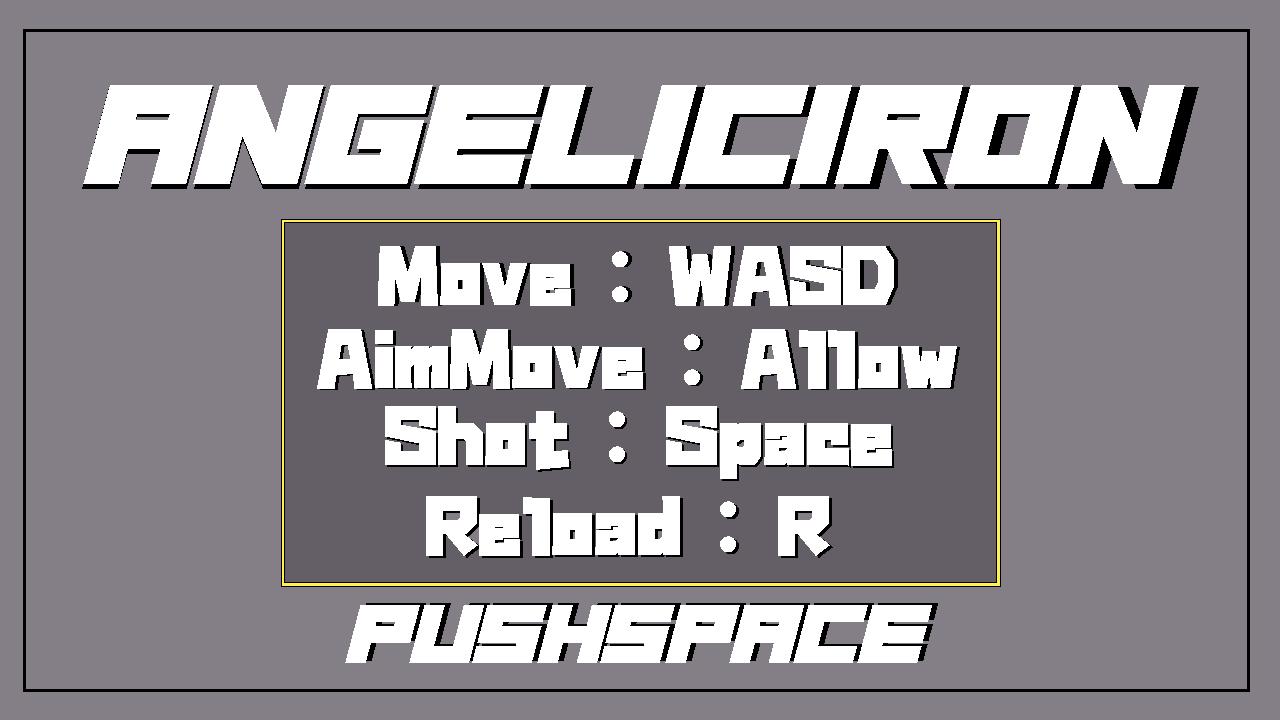
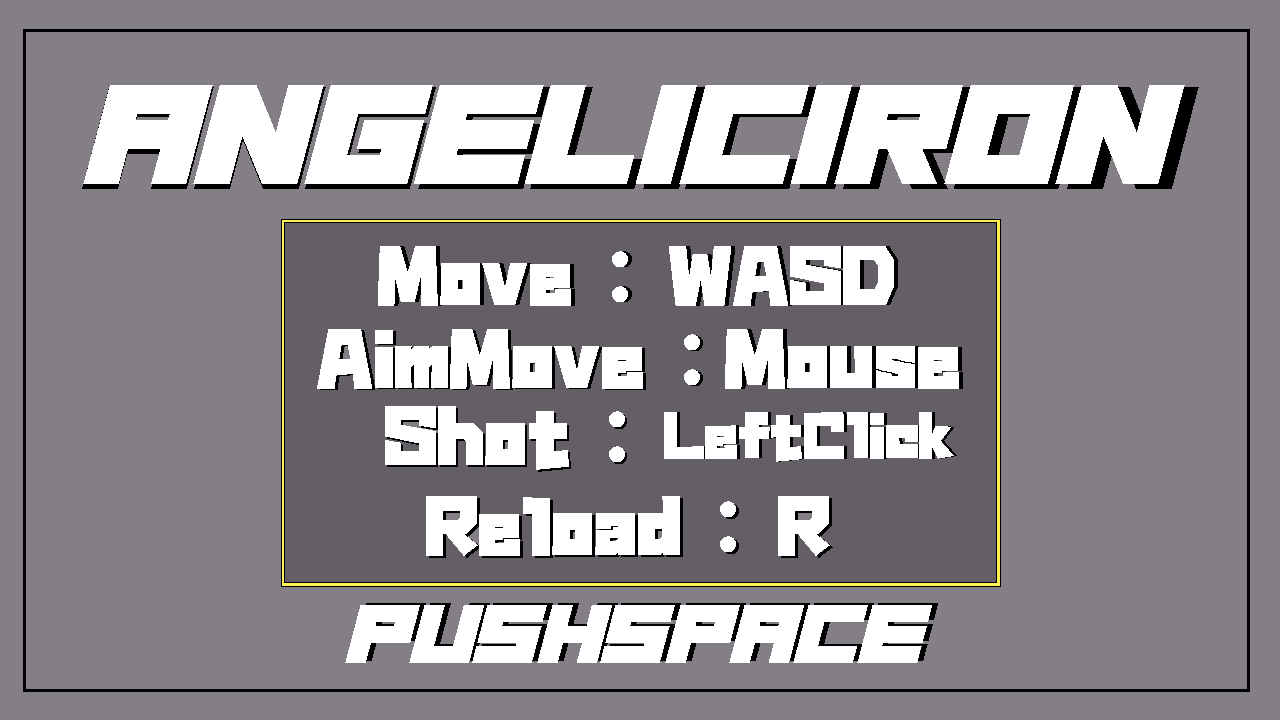
マウスによるエイム操作完成、クリア時演出作成

Changed region(s): [[0.5, 0.4583, 0.75, 0.6722]]

diff --git a/Engine/GameScene/GameScene.cpp b/Engine/GameScene/GameScene.cpp
@@ -49,7 +49,7 @@ void GameScene::Initialize(DirectXCommon* dxCommon, Sound* sound) {
 	celetialSphere->SetScale(sphereScale);
 
 	player = new Player();
-	player->Initialize(camera, sound);
+	player->Initialize(camera, sound, clearTime);
 	player->SetGameScene(this);
 
 	LoadEnemyData();
@@ -75,6 +75,8 @@ void GameScene::Initialize(DirectXCommon* dxCommon, Sound* sound) {
 	isClear = false;
 	isTitle = true;
 	isWait = false;
+
+	clearTimer = clearTime;
 
 }
 
@@ -144,6 +146,9 @@ void GameScene::Update() {
 		EnemyDataUpdate();
 
 		if (enemies.empty()) {
+			clearTimer--;
+		}
+		if (clearTimer <= 0) {
 			isClear = true;
 		}
 
@@ -164,7 +169,9 @@ void GameScene::Update() {
 		}
 
 		if (player->GetHPCount() > 0) {
-			railCamera->Update();
+			if (!enemies.empty()) {
+				railCamera->Update();
+			}
 			for (std::unique_ptr<Enemy>& enemy : enemies) {
 				enemy->Update(player->GetPlayerPos());
 			}
@@ -182,7 +189,7 @@ void GameScene::Update() {
 
 		celetialSphere->Update();
 		ground->Update();
-		player->Update();
+		player->Update(enemies.empty());
 		object1->Update();
 
 	}
@@ -257,7 +264,7 @@ void GameScene::Draw() {
 	if (isClear) {
 		clear->Draw();
 	}
-	debugText.DrawAll(dxCommon->GetCmdList());
+	//debugText.DrawAll(dxCommon->GetCmdList());
 	Sprite::PostDraw();
 
 	postEffect->PostDrawScene(dxCommon->GetCmdList());
@@ -289,7 +296,7 @@ void GameScene::Reset() {
 	LoadRailPoint();
 	railCamera->Reset(points);
 
-
+	clearTimer = clearTime;
 	isDead = false;
 	isClear = false;
 	isTitle = true;

diff --git a/Engine/ApplicationCode/Enemy.cpp b/Engine/ApplicationCode/Enemy.cpp
@@ -116,7 +116,7 @@ void Enemy::EnemyAction(const XMFLOAT3& playerPos) {
 		pos.x += moveSpeedX;
 	}
 
-	if (--shotIntervalTimer <= shotIntervalTimeover /*&& IsShotRangeJudge(Vector3{playerPos.x, playerPos.y, playerPos.z}, pos, 150.0f, 2.0f)*/) {
+	if (--shotIntervalTimer <= shotIntervalTimeover && IsShotRangeJudge(Vector3{playerPos.x, playerPos.y, playerPos.z}, pos, 150.0f, 2.0f)) {
 		Shot();
 		shotIntervalTimer = shotIntervalTime;
 	}
